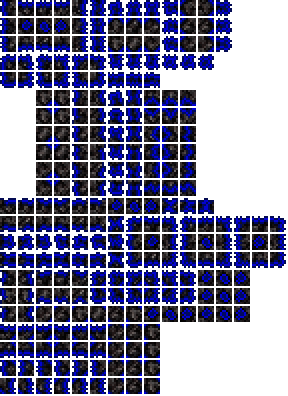
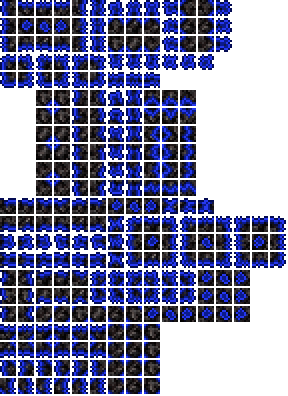
Lazite grass glow

Changed region(s): [[0.0, 0.0, 1.0, 1.0], [0.1562, 0.3333, 0.2188, 0.3939]]

diff --git a/Tiles/LaziteGrass.cs b/Tiles/LaziteGrass.cs
@@ -1,5 +1,8 @@
 using Microsoft.Xna.Framework;
+using Microsoft.Xna.Framework.Graphics;
+using System.Collections.Generic;
 using Terraria;
+using Terraria.DataStructures;
 using Terraria.ID;
 using Terraria.ModLoader;
 
@@ -23,7 +26,86 @@ public class LaziteGrass : ModTile
         DustType = DustID.GemSapphire;
         HitSound = SoundID.Tink;
     }
+    public override void DrawEffects(int i, int j, SpriteBatch spriteBatch, ref TileDrawInfo drawData)
+    {
+        // This allows us to draw things in SpecialDraw
+        if (drawData.tileFrameX >= 0 && drawData.tileFrameY >= 0)
+        {
+            Main.instance.TilesRenderer.AddSpecialLegacyPoint(i, j);
+        }
+    }
+    public override void SpecialDraw(int i, int j, SpriteBatch spriteBatch)
+    {
+        Tile tile = Main.tile[i, j];
+        var zero = new Vector2(Main.offScreenRange, Main.offScreenRange);
+        if (Main.drawToScreen)
+        {
+            zero = Vector2.Zero;
+        }
 
+        Vector2 pos = new Vector2(i * 16, j * 16) + zero - Main.screenPosition;
+        var frame = new Rectangle(tile.TileFrameX, tile.TileFrameY, 16, 16);
+        var halfFrame = new Rectangle(tile.TileFrameX, tile.TileFrameY, 16, 8);
+        Texture2D tex = Mod.Assets.Request<Texture2D>("Tiles/LaziteGrass_Glow").Value;
+        var colors = new List<Color> { new(80, 80, 80), new(145, 145, 145) };
+        int num = (int)(Main.GlobalTimeWrappedHourly / 135f % colors.Count);
+        int index = (int)(Main.GameUpdateCount / 135 % colors.Count);
+        int nextIndex = (index + 1) % colors.Count;
+        Color colorShift = Color.Lerp(colors[index], colors[nextIndex], Main.GameUpdateCount % 135 / 135f);
+        if (tile.Slope == SlopeType.Solid && !tile.IsHalfBlock)
+        {
+            Main.spriteBatch.Draw(Mod.Assets.Request<Texture2D>("Tiles/LaziteGrass_Glow").Value, pos, frame, colorShift);
+        }
+        else if (tile.IsHalfBlock)
+        {
+            pos = new Vector2(i * 16, (j * 16) + 8) + zero - Main.screenPosition;
+            Main.spriteBatch.Draw(Mod.Assets.Request<Texture2D>("Tiles/LaziteGrass_Glow").Value, pos, halfFrame, colorShift);
+        }
+        else
+        {
+            Vector2 screenOffset = new Vector2(Main.offScreenRange, Main.offScreenRange);
+            if (Main.drawToScreen)
+            {
+                screenOffset = Vector2.Zero;
+            }
+            Vector2 vector = new Vector2(i * 16 - (int)Main.screenPosition.X, j * 16 - (int)Main.screenPosition.Y) + screenOffset;
+            int slopeType = (int)tile.Slope;
+            int num5 = 2;
+            int addFrY = Main.tileFrame[Type] * 90;
+            int addFrX = 0;
+            for (int q = 0; q < 8; q++)
+            {
+                int num6 = q * -2;
+                int num7 = 16 - q * 2;
+                int num8 = 16 - num7;
+                int num9;
+                switch (slopeType)
+                {
+                    case 1:
+                        num6 = 0;
+                        num9 = q * 2;
+                        num7 = 14 - q * 2;
+                        num8 = 0;
+                        break;
+                    case 2:
+                        num6 = 0;
+                        num9 = 16 - q * 2 - 2;
+                        num7 = 14 - q * 2;
+                        num8 = 0;
+                        break;
+                    case 3:
+                        num9 = q * 2;
+                        break;
+                    default:
+                        num9 = 16 - q * 2 - 2;
+                        break;
+                }
+                Main.spriteBatch.Draw(tex, vector + new Vector2(num9, q * num5 + num6), (Rectangle?)new Rectangle(tile.TileFrameX + addFrX + num9, tile.TileFrameY + addFrY + num8, num5, num7), colorShift, 0f, Vector2.Zero, 1f, SpriteEffects.None, 0f);
+            }
+            int num10 = ((slopeType <= 2) ? 14 : 0);
+            Main.spriteBatch.Draw(tex, vector + new Vector2(0f, num10), (Rectangle?)new Rectangle(tile.TileFrameX + addFrX, tile.TileFrameY + addFrY + num10, 16, 2), colorShift, 0f, Vector2.Zero, 1f, SpriteEffects.None, 0f);
+        }
+    }
     public override void KillTile(int i, int j, ref bool fail, ref bool effectOnly, ref bool noItem)
     {
         if (fail && !effectOnly)
